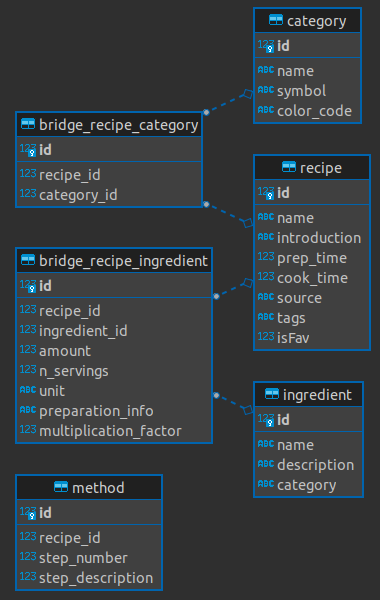
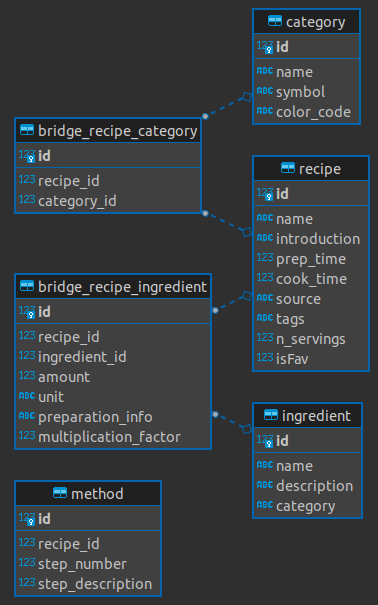
Refactor db model
The field n_servings is moved from the bridge table to Recipe

diff --git a/main.py b/main.py
@@ -15,6 +15,7 @@ class Recipe(BaseModel):
     cook_time: Union[int, None] = None
     source: Union[str, None] = None
     tags: Union[str, None] = None
+    n_servings: int
 
 
 app = FastAPI()
@@ -41,8 +42,8 @@ def read_root():
 def create_recipe(recipe: Recipe):
     """Add recipe to the database"""
     sql = """
-    INSERT INTO recipe (name, introduction, prep_time, cook_time, source, tags)
-    VALUES (?, ?, ?, ?, ?, ?)
+    INSERT INTO recipe (name, introduction, prep_time, cook_time, source, tags, n_servings)
+    VALUES (?, ?, ?, ?, ?, ?, ?)
     """
     recipe_info = tuple(vars(recipe).values())
     with sqlite3.connect('food.db') as con:
@@ -69,7 +70,7 @@ def read_recipes():
 def read_ingredients():
     """Get all ingredients"""
     sql = """
-          SELECT r.id, i.name , bri.amount, bri.unit, bri.preparation_info, bri.n_servings 
+          SELECT r.id, i.name , bri.amount, bri.unit, bri.preparation_info
              from recipe r JOIN bridge_recipe_ingredient bri 
                 ON r.id = bri.recipe_id
             JOIN ingredient i 
@@ -88,7 +89,7 @@ def read_ingredients():
 def read_ingredient(id: int):
     """Get the ingredients for a specific recipe"""
     sql = """
-          SELECT i.name , bri.amount, bri.unit, bri.preparation_info, bri.n_servings 
+          SELECT i.name , bri.amount, bri.unit, bri.preparation_info
              from recipe r JOIN bridge_recipe_ingredient bri 
                 ON r.id = bri.recipe_id
             JOIN ingredient i 
